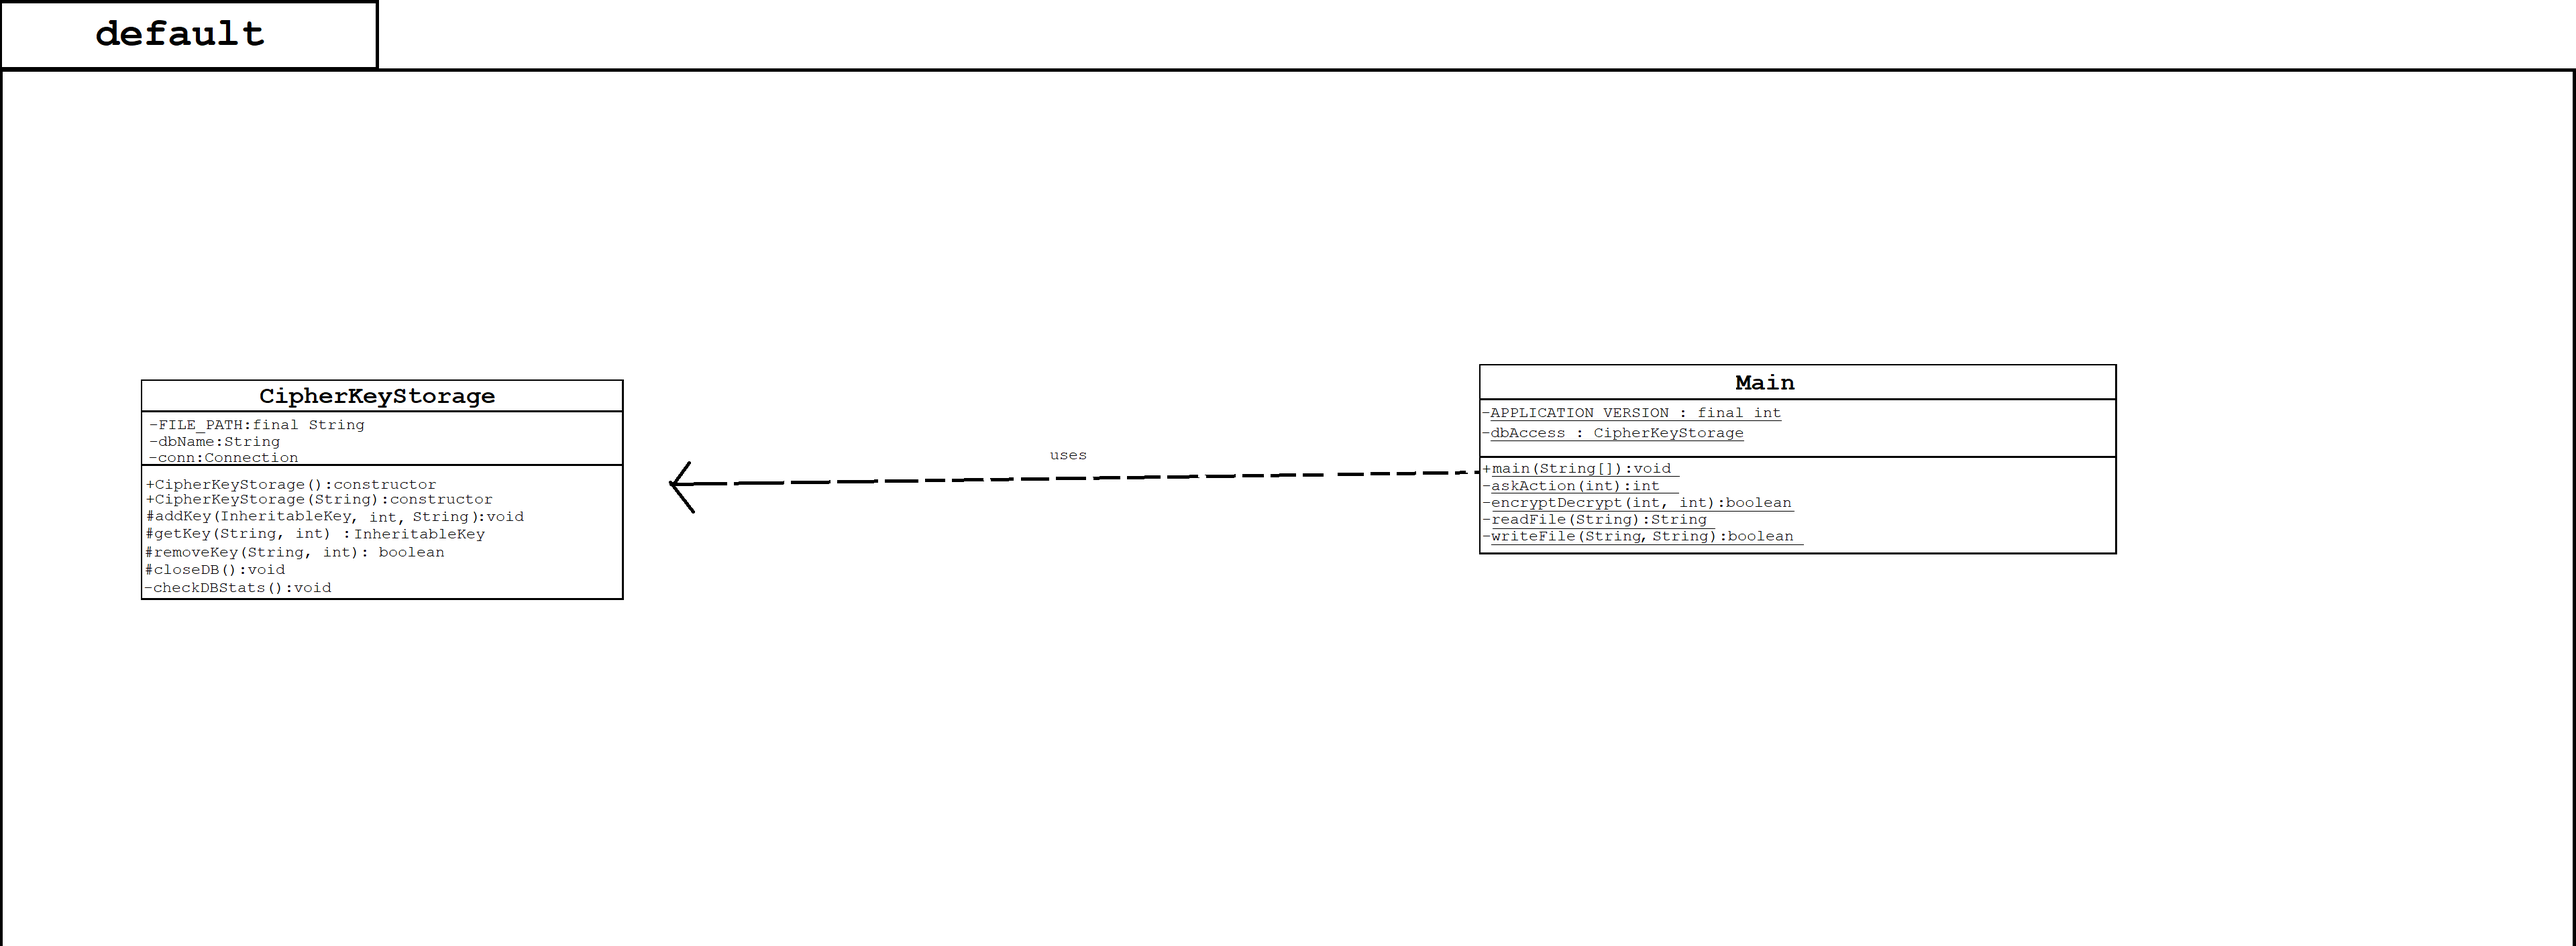
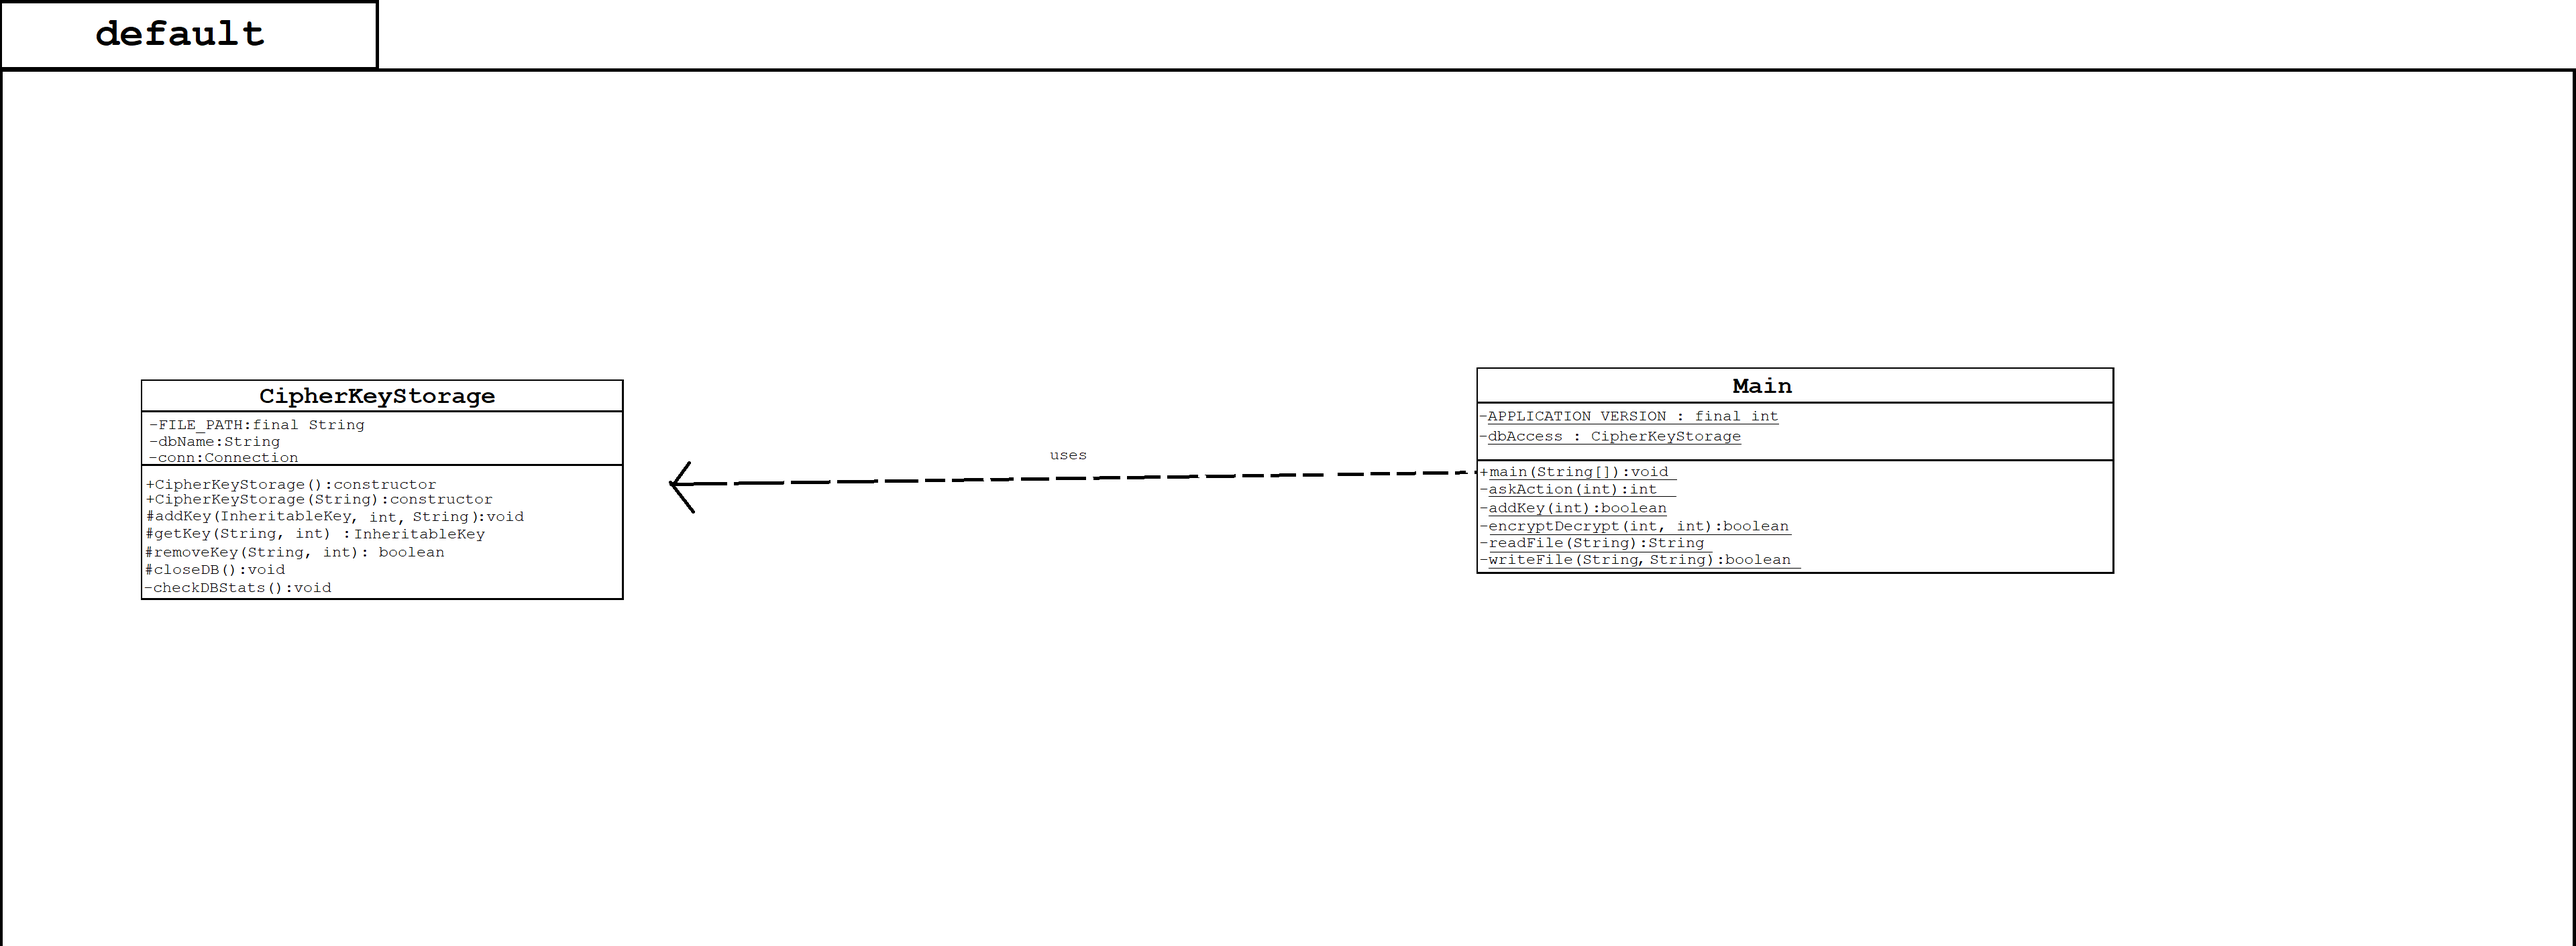
Updated UML Diagrams with some changes.

Changed region(s): [[0.5625, 0.3742, 0.8125, 0.6237]]

diff --git a/Encryptor Decryptor File Encryption/src/Encryptor Decryptor File Ecryption/main.java b/Encryptor Decryptor File Encryption/src/Encryptor Decryptor File Ecryption/main.java
@@ -3,11 +3,14 @@ import CipherPackage.*;
 import java.util.Scanner;
 import java.io.File;
 import java.io.FileNotFoundException;
+import java.util.Base64;
+import javax.crypto.SecretKey;
+import javax.crypto.spec.SecretKeySpec;
 
 public class main
 {
 	private static final String VERSION_NUMBER = "0.9";
-	private static CipherKeyStorage dbAccess;
+	private static CipherKeyStorage dbAccess = null;
 	
 	public static void main(String[] args)
 	{
@@ -56,16 +59,19 @@ public class main
 				int toDo = 0;
 				if(input == 1)
 				{
-					if(defaultExists) //We are starting of as 1 and not switched from 3 to 1.  
+					if(defaultExists && (dbAccess == null)) //We are starting of as 1 and not switched from 3 to 1.  
 						dbAccess = new CipherKeyStorage();
 					toDo = askAction(1);
 				}
 				else if(input == 2)
 				{
-					String ignore = userInput.nextLine(); //Flush the next line character that may remain in Scanner.  
-					System.out.println("Enter the file path with the name of the database file.  :  ");
-					String thePath = userInput.nextLine();
-					dbAccess = new CipherKeyStorage(thePath);
+					if(dbAccess == null) //Currently no db is in use.  
+					{
+						String ignore = userInput.nextLine(); //Flush the next line character that may remain in Scanner.  
+						System.out.println("Enter the file path with the name of the database file.  :  ");
+						String thePath = userInput.nextLine();
+						dbAccess = new CipherKeyStorage(thePath);
+					}
 					toDo = askAction(1);
 				}
 				else
@@ -75,9 +81,8 @@ public class main
 					System.out.println("Default database created successfully.  ");
 					toDo = askAction(2);
 				}
-				if(toDo == 1)
+				if(toDo == 1) //Decrypt
 				{
-					int option = 1;
 					int keyType = 0;
 					while((keyType < 1) || (keyType > 7))
 					{
@@ -88,25 +93,71 @@ public class main
 										   + "6 if the file was encrypted using Rail Fence cipher.   Enter 7 if the \n"
 										   + "file was encrypted using Vigenere cipher.  :  ");
 						keyType = userInput.nextInt();
-						if()
 					}
+					if(encryptDecrypt(2, keyType))
+						System.out.println("Decryption done successfuly.  ");
 				}
-				else if(toDo == 2)
+				else if(toDo == 2) //Encrypt
 				{
-					
+					int keyType = 0;
+					while((keyType < 1) || (keyType > 7))
+					{
+						System.out.println("Enter 1 if you want to encrypt the file using AES-GCM.  Enter 2 if you \n"
+										   + "want to encrypt the file using AES-CBC.  Enter 3 if you want to encrypt \n"
+										   + "the file using Affine cipher.  Enter 4 if you want to encrypt the file \n"
+										   + "using Caeser cipher.  Enter 5 if you want to encrypt the file using \n"
+										   + "One Time Pad.  Enter 6 if you want to encrypt the file using Rail Fence \n"
+										   + "cipher.  Enter 7 if you want to encrypt the file using Vigenere cipher.  :  ");
+						keyType = userInput.nextInt();
+					}
+					if(encryptDecrypt(1, keyType))
+						System.out.println("Encryption done successfuly.  ");
 				}
-				else if(toDo == 3)
+				else if(toDo == 3) //Delete
 				{
-					
+					int keyType = 0;
+					while((keyType < 1) || (keyType > 7))
+					{
+						System.out.println("Enter 1 if you want to delete a key that is of type AES-GCM.  Enter 2 if \n"
+										   + "you want to delete a key that is of type AES-CBC.  Enter 3 if you want \n"
+										   + "to delete a key that is of type Affine.  Enter 4 if you want to delete \n"
+										   + "a key that is of type Caeser.  Enter 5 if you want to delete a key that \n"
+										   + "is of type One Time Pad.  Enter 6 if you want to delete a key that is \n"
+										   + "of type Rail Fence.  Enter 7 if you want to delete a key that is of type \n"
+										   + "Vigenere.  :  ");
+						keyType = userInput.nextInt();
+					}
+					while(userInput.hasNextLine())
+					{
+						String toIgnore = userInput.nextLine(); //Flush any /n characters that may remain from next ints.  
+					}
+					System.out.println("Enter the name of the file (with path if file is not located in the same \n"
+									   + "directory as the program).  :  ");
+					dbAccess.removeKey(userInput.nextLine(), keyType);
 				}
-				else if(toDo == 4)
+				else if(toDo == 4) //Add key
 				{
-					
+					int keyType = 0;
+					while((keyType < 1) || (keyType > 7))
+					{
+						System.out.println("Enter 1 if the key you want to add is an AES-GCM key.  Enter 2 if the key \n"
+										   + "you want to add is an AES-CBC key.  Enter 3 if the key you want to add \n"
+										   + "is an Affine key.  Enter 4 if the key you want to add is an Caeser key.  \n"
+										   + "Enter 5 if the key you want to add is an One Time Pad key.  Enter 6 if \n"
+										   + "the key you want to add is an Rail Fence key.  Enter 7 if the key you \n"
+										   + "want to add is an Vigenere key.  :  ");
+						keyType = userInput.nextInt();
+					}
+					if(addKey(keyType))
+						System.out.println("Key added to db successfuly.  ");
 				}
-				else
+				else //Close db
 					break;
-				if((input == 3) && ((toDo == 2) || (toDo == 4)))
+				if((input == 3) && ((toDo == 2) || (toDo == 4))) //Something has been added to the newly created default db.  
+				{
 					input = 1; //More options now available.  
+					defaultExists = true;
+				}
 			}
 			if(input == 4)
 				break;
@@ -143,6 +194,56 @@ public class main
 		}
 		userInput.close();
 		return inputSelection;
+	}
+	
+	private static boolean addKey(int keyType)
+	{
+		Scanner userInput = new Scanner(System.in);
+		InheritableKey theKey = null;
+		if(keyType == 1) //Create AES-GCM key.  
+		{
+			System.out.println("Enter the authentication tag length.  :  ");
+			int authTagLength = userInput.nextInt();
+			while(userInput.hasNextLine()) //Flush any /n characters that may remain from next ints.  
+			{
+				String clearNewLines = userInput.nextLine();
+			}
+			System.out.println("Enter the Base-64 string of the initialization vector.  :  ");
+			byte[] initVect = Base64.getDecoder().decode(userInput.nextLine());
+			System.out.println("Enter the Base-64 string of the secret key.  :  ");
+			byte[] secKeyBytes = Base64.getDecoder().decode(userInput.nextLine());
+			SecretKey secKey = new SecretKeySpec(secKeyBytes, 0, secKeyBytes.length, "AES");
+			theKey = new BlockKey(secKey, initVect, authTagLength);
+			theKey.setComponents();
+		}
+		else if(keyType == 2) //Create AES-CBC key.  
+		{
+			while(userInput.hasNextLine()) //Flush any /n characters that may remain from next ints.  
+			{
+				String clearNewLines = userInput.nextLine();
+			}
+			System.out.println("Enter the Base-64 string of the initialization vector.  :  ");
+		}
+		else if(keyType == 3) //Create Affine key.  
+		{
+			
+		}
+		else if(keyType == 4) //Create Caeser key.  
+		{
+			
+		}
+		else if(keyType == 5) //Create One Time Pad key.  
+		{
+			
+		}
+		else if(keyType == 6) //Create Rail Fence key.  
+		{
+			
+		}
+		else //Create Vigenere key.  
+		{
+			
+		}
 	}
 	
 	private static boolean encryptDecrypt(int option, int keyType)
